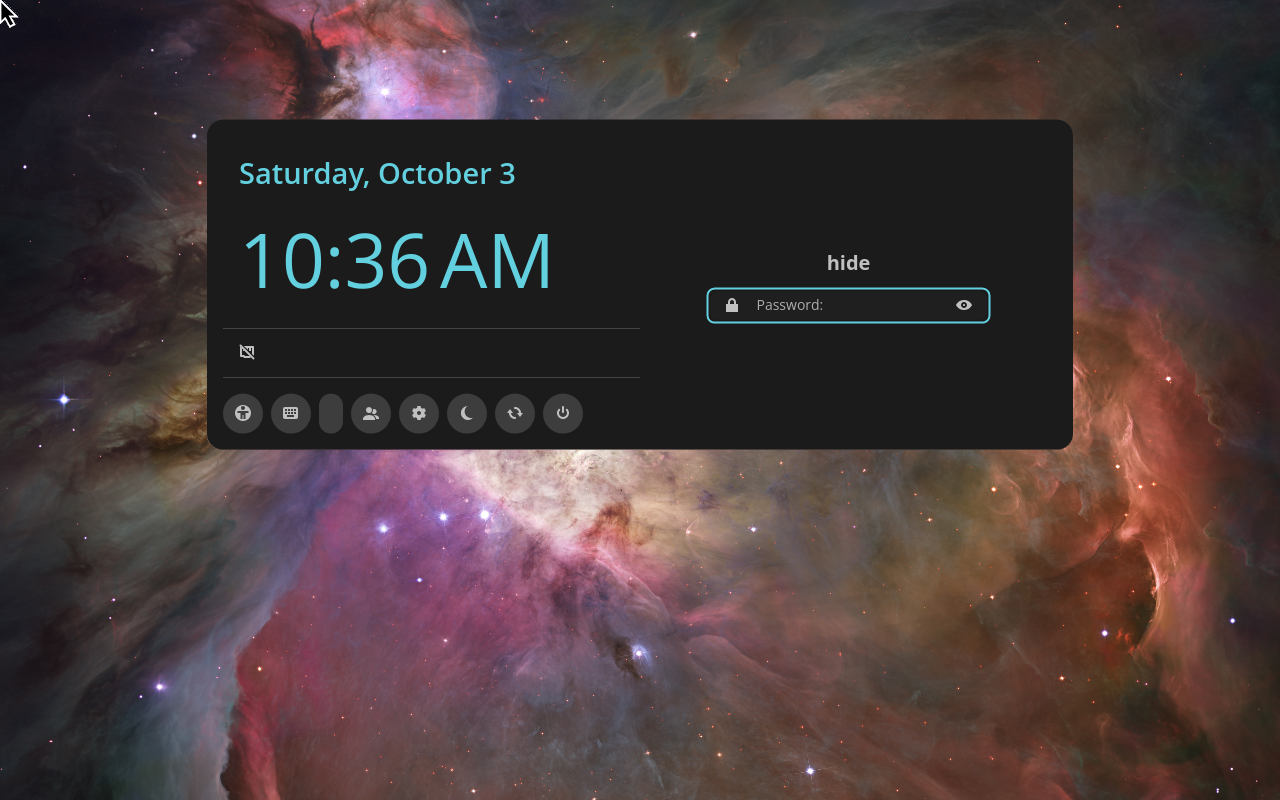
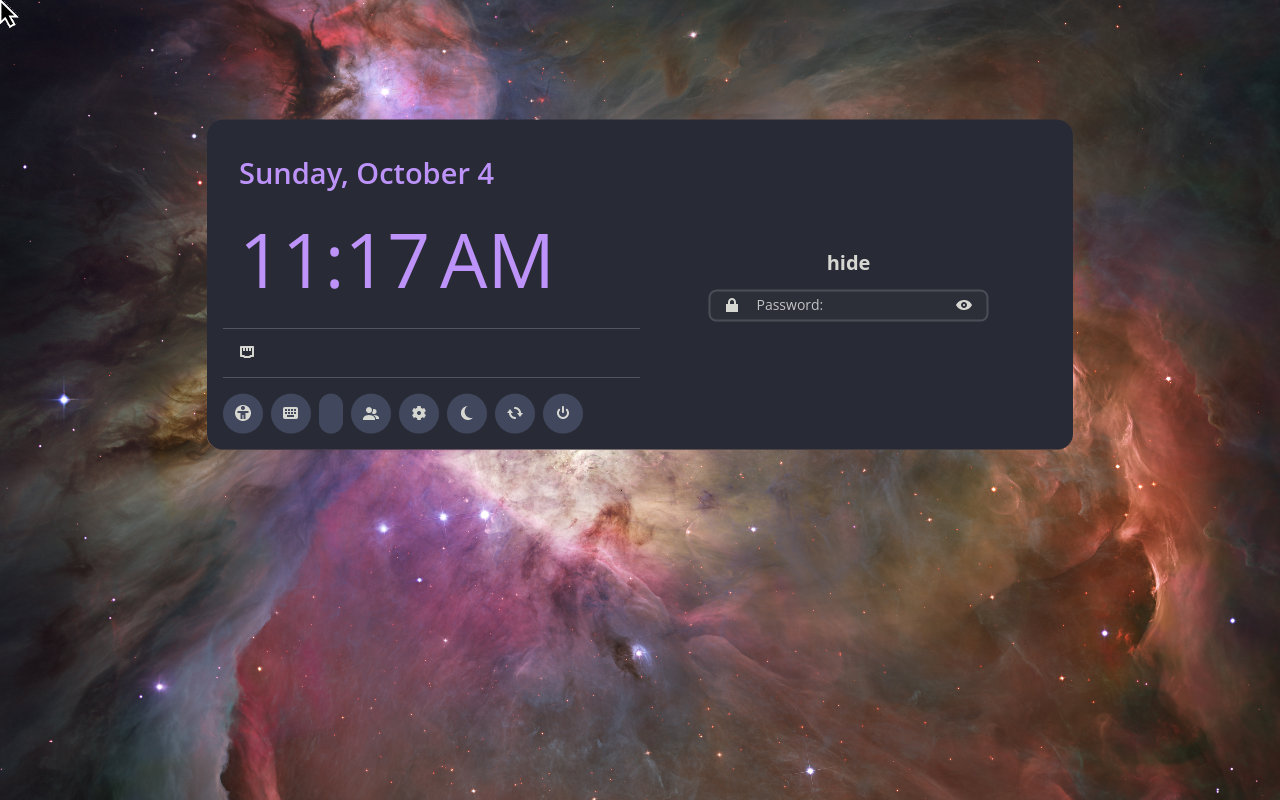
README and site: the Workstation in Dracula — terminal, Settings → Updates, the greeter; status brought up to date

Changed region(s): [[0.1562, 0.125, 0.8438, 0.5625]]

diff --git a/site/index.html b/site/index.html
@@ -190,17 +190,17 @@
 
   <section class="section" aria-labelledby="desktop">
     <h2 class="section__title" id="desktop"><span class="sig">$</span>cargo xtask screenshot --edition workstation --login</h2>
-    <p class="comment"># hideOS Workstation: COSMIC epoch 1.9, Mesa and LLVM built from source, booted sealed from its own disk, logged in at cosmic-greeter. drawn by llvmpipe on QEMU's virtio-gpu.</p>
+    <p class="comment"># hideOS Workstation: COSMIC epoch 1.9, Mesa and LLVM built from source, booted sealed from its own disk, logged in at cosmic-greeter, in hideOS's Dracula theme. drawn by llvmpipe on QEMU's virtio-gpu.</p>
     <div class="term shot shot--photo">
       <div class="term__bar" aria-hidden="true">
         <span class="dot dot--red"></span><span class="dot dot--yellow"></span><span class="dot dot--green"></span>
         <span class="term__path">qemu-system-x86_64: hideOS workstation</span>
       </div>
       <div class="term__body">
-        <img src="desktop.jpg" width="1280" height="800" loading="lazy" alt="The COSMIC desktop on hideOS: the top panel with Workspaces, Applications, the clock and status applets, the Orion nebula wallpaper, and the dock at the bottom.">
+        <img src="desktop.jpg" width="1280" height="800" loading="lazy" alt="The COSMIC desktop on hideOS in the Dracula theme: a terminal with purple accents shows hide status — version 38, good, running, boots next; the disk not encrypted; updates from ghcr.io/youhide/hideos:workstation-edge — over the Orion nebula wallpaper, with the panel above and the dock below.">
       </div>
     </div>
-    <p class="shot__caption"># the dock holds what hideOS ships: files, terminal, text editor, settings. sound and polkit run behind the panel.</p>
+    <p class="shot__caption"># hide status, as the person: the deployment that runs, the disk, and where updates come from. the panel's arrow is the update applet: restart to update, once one is staged.</p>
   </section>
 
   <hr class="rule">
@@ -248,11 +248,11 @@
       <li class="is-done"><span class="roadmap__id">H0</span><span class="roadmap__what">Repository, architecture, build environment</span><span class="roadmap__state">done</span></li>
       <li class="is-done"><span class="roadmap__id">H1</span><span class="roadmap__what">hideforge builds hideOS Minimal, which boots to a shell</span><span class="roadmap__state">done on x86_64</span></li>
       <li class="is-done"><span class="roadmap__id">H2</span><span class="roadmap__what">The seal: composefs, fs-verity, signed kernel images</span><span class="roadmap__state">done on x86_64</span></li>
-      <li class="is-now"><span class="roadmap__id">H3</span><span class="roadmap__what">Whole-image updates and automatic rollback</span><span class="roadmap__state">OCI updates roll back by themselves; registry next</span></li>
-      <li class="is-now"><span class="roadmap__id">H4</span><span class="roadmap__what">Real hardware: TPM disk encryption, Wi-Fi, suspend</span><span class="roadmap__state">TPM2, Wi-Fi, suspend and hibernation in QEMU; a laptop next</span></li>
-      <li class="is-now"><span class="roadmap__id">H5</span><span class="roadmap__what">hideOS Workstation: COSMIC, Flatpak, containers for development</span><span class="roadmap__state">desktop, Flatpak and Flathub, Settings → Updates; containers next</span></li>
+      <li class="is-now"><span class="roadmap__id">H3</span><span class="roadmap__what">Whole-image updates and automatic rollback</span><span class="roadmap__state">OCI updates from ghcr.io roll back by themselves; public stable channel next</span></li>
+      <li class="is-now"><span class="roadmap__id">H4</span><span class="roadmap__what">Real hardware: TPM disk encryption, Wi-Fi, suspend</span><span class="roadmap__state">kernel modules, firmware, microcode, TPM2, Wi-Fi, suspend, the watchdog in QEMU; a laptop next</span></li>
+      <li class="is-now"><span class="roadmap__id">H5</span><span class="roadmap__what">hideOS Workstation: COSMIC, Flatpak, containers for development</span><span class="roadmap__state">desktop in Dracula, Flatpak, hide shell containers, Settings → Updates and the update applet; first-boot setup next</span></li>
       <li class="is-now"><span class="roadmap__id">H6</span><span class="roadmap__what">NVIDIA as a signed extension; ARM64</span><span class="roadmap__state">signed system extensions merge; NVIDIA next</span></li>
-      <li class="is-now"><span class="roadmap__id">H7</span><span class="roadmap__what">Installer, recovery, hideBoot</span><span class="roadmap__state">installer, recovery and hideBoot; Secure Boot keys next</span></li>
+      <li class="is-now"><span class="roadmap__id">H7</span><span class="roadmap__what">Installer, recovery, hideBoot</span><span class="roadmap__state">installer, recovery, hideBoot and hideOS's own Secure Boot keys; done in QEMU</span></li>
       <li><span class="roadmap__id">H8</span><span class="roadmap__what">Rust replacements for the device manager and login daemon</span><span class="roadmap__state">planned</span></li>
     </ol>
   </section>

diff --git a/README.md b/README.md
@@ -12,12 +12,18 @@ that cannot be corrupted, and updates that roll themselves back when they fail.
 and boots it sealed — UEFI, hideBoot, a kernel image carrying the
 system's digest, a read-only root checked by fs-verity — under oxinit, in
 QEMU: Minimal to a shell, Workstation to the COSMIC desktop, with Flatpak
-and Flathub. It installs from its own installer, opens an encrypted disk
-with the TPM, updates whole and rolls back by itself. Not yet for daily
-use; see [ROADMAP.md](ROADMAP.md). Site and wiki:
+and Flathub, and `hide shell` for development tools in rootless Podman
+containers. It installs from its own installer, enrolls its own Secure Boot
+keys, opens an encrypted disk with the TPM, updates whole from
+ghcr.io/youhide/hideos and rolls back by itself, with a hardware watchdog
+for a boot that hangs. Not yet for daily use; see [ROADMAP.md](ROADMAP.md). Site and wiki:
 <https://youhide.github.io/hideOS/>.
 
-![hideOS Workstation: the COSMIC desktop in hideOS's Dracula theme, with its panel and dock, after logging in at the greeter](docs/images/workstation-desktop.png)
+![hideOS Workstation: the COSMIC desktop in hideOS's Dracula theme, a terminal showing `hide status` — the running deployment, the disk, and updates from ghcr.io/youhide/hideos:workstation-edge](docs/images/workstation-desktop.png)
+
+![Settings → System → Updates: updates from the edge channel with "Update now", the deployment that runs, and going back to the previous one](docs/images/workstation-updates.png)
+
+![cosmic-greeter in Dracula's colours, asking for the password of hide](docs/images/workstation-greeter.png)
 
 The desktop's default theme, and the terminal's colours, are
 [Dracula](https://draculatheme.com)'s, by Zeno Rocha and contributors (MIT),
